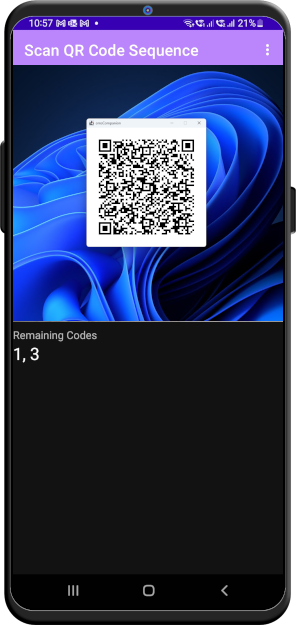
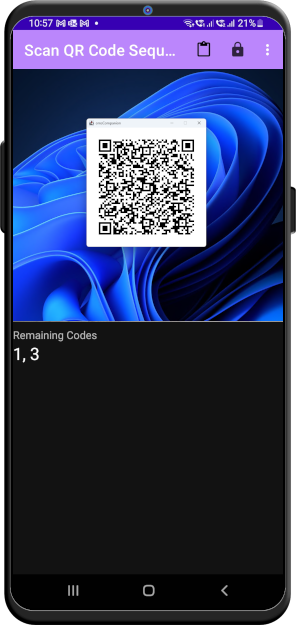
close #1

Changed region(s): [[0.0304, 0.0608, 0.9426, 0.1216]]

diff --git a/app/src/main/java/com/onemoresecret/PinSetupFragment.java b/app/src/main/java/com/onemoresecret/PinSetupFragment.java
@@ -179,9 +179,17 @@ public class PinSetupFragment extends Fragment {
     };
 
     private boolean isPinValid() {
-        return !binding.editTextPin.getText().toString().isEmpty() &&
+        boolean b = !binding.editTextPin.getText().toString().isEmpty() &&
                 binding.editTextPin.getText().toString()
                         .equals(binding.editTextRepeatPin.getText().toString());
+
+        if (b && !binding.editTextPanicPin.getText().toString().isEmpty() &&
+                binding.editTextPanicPin.getText().toString().equals(binding.editTextPin.getText().toString())) {
+            Toast.makeText(requireContext(), R.string.panic_pin_should_not_match_pin, Toast.LENGTH_LONG).show();
+            b = false;
+        }
+
+        return b;
     }
 
     private boolean isPanicPinValid() {

diff --git a/pin_setup.md b/pin_setup.md
@@ -1,0 +1,25 @@
+# PIN Setup
+![PIN Setup Form](/readme_images/pin_setup.png)
+
+You can protect the app with a PIN. This does not really make sense at a first glance, since the key material is stored in the phone hardware and protected by the finger print. 
+
+But what if someone is forcing you into decoding your data? Well, here's where the PIN system comes in handy. 
+
+- you can enable PIN protection, it will just ask for a PIN when *OneMoreSecret* starts
+- additionally, you can ask for the PIN every now and then
+- *OneMoreSecret* can also delete all your keys from the key storage after X failed attempts
+
+## Panic Mode
+So far so good, but what is the Panic PIN? It's a second PIN that will immediately delete all your keys from the device. 
+
+⚠ WARNING: 
+- the keys will be deleted without further notice
+- after the keys have been deleted, Panic PIN will act exactly as the normal PIN saying "PIN accepted"
+
+You can also "lock" the app at any time by pressing 🔒 on the [QR Scanner screen](/qr_scanner.md). If you now try to decode some data, you will have to enter your PIN first.
+
+Once the PIN has been set up, you will see the following PIN pad as required:
+
+![PIN pad](/readme_images/pin_pad.png)
+
+⚠ The digits will be shuffled every time the pad is displayed.

diff --git a/qr_scanner.md b/qr_scanner.md
@@ -9,3 +9,4 @@ If you are restoring your [private key](./key_import.md) from the backup file, p
 - [Private Key Management](key_management.md)
 - [Password Generator](password_generator.md)
 - [Encrypt Text](encrypt_text.md)
+- [Panic Mode](pin_setup.md#panic-mode) (🔒)
